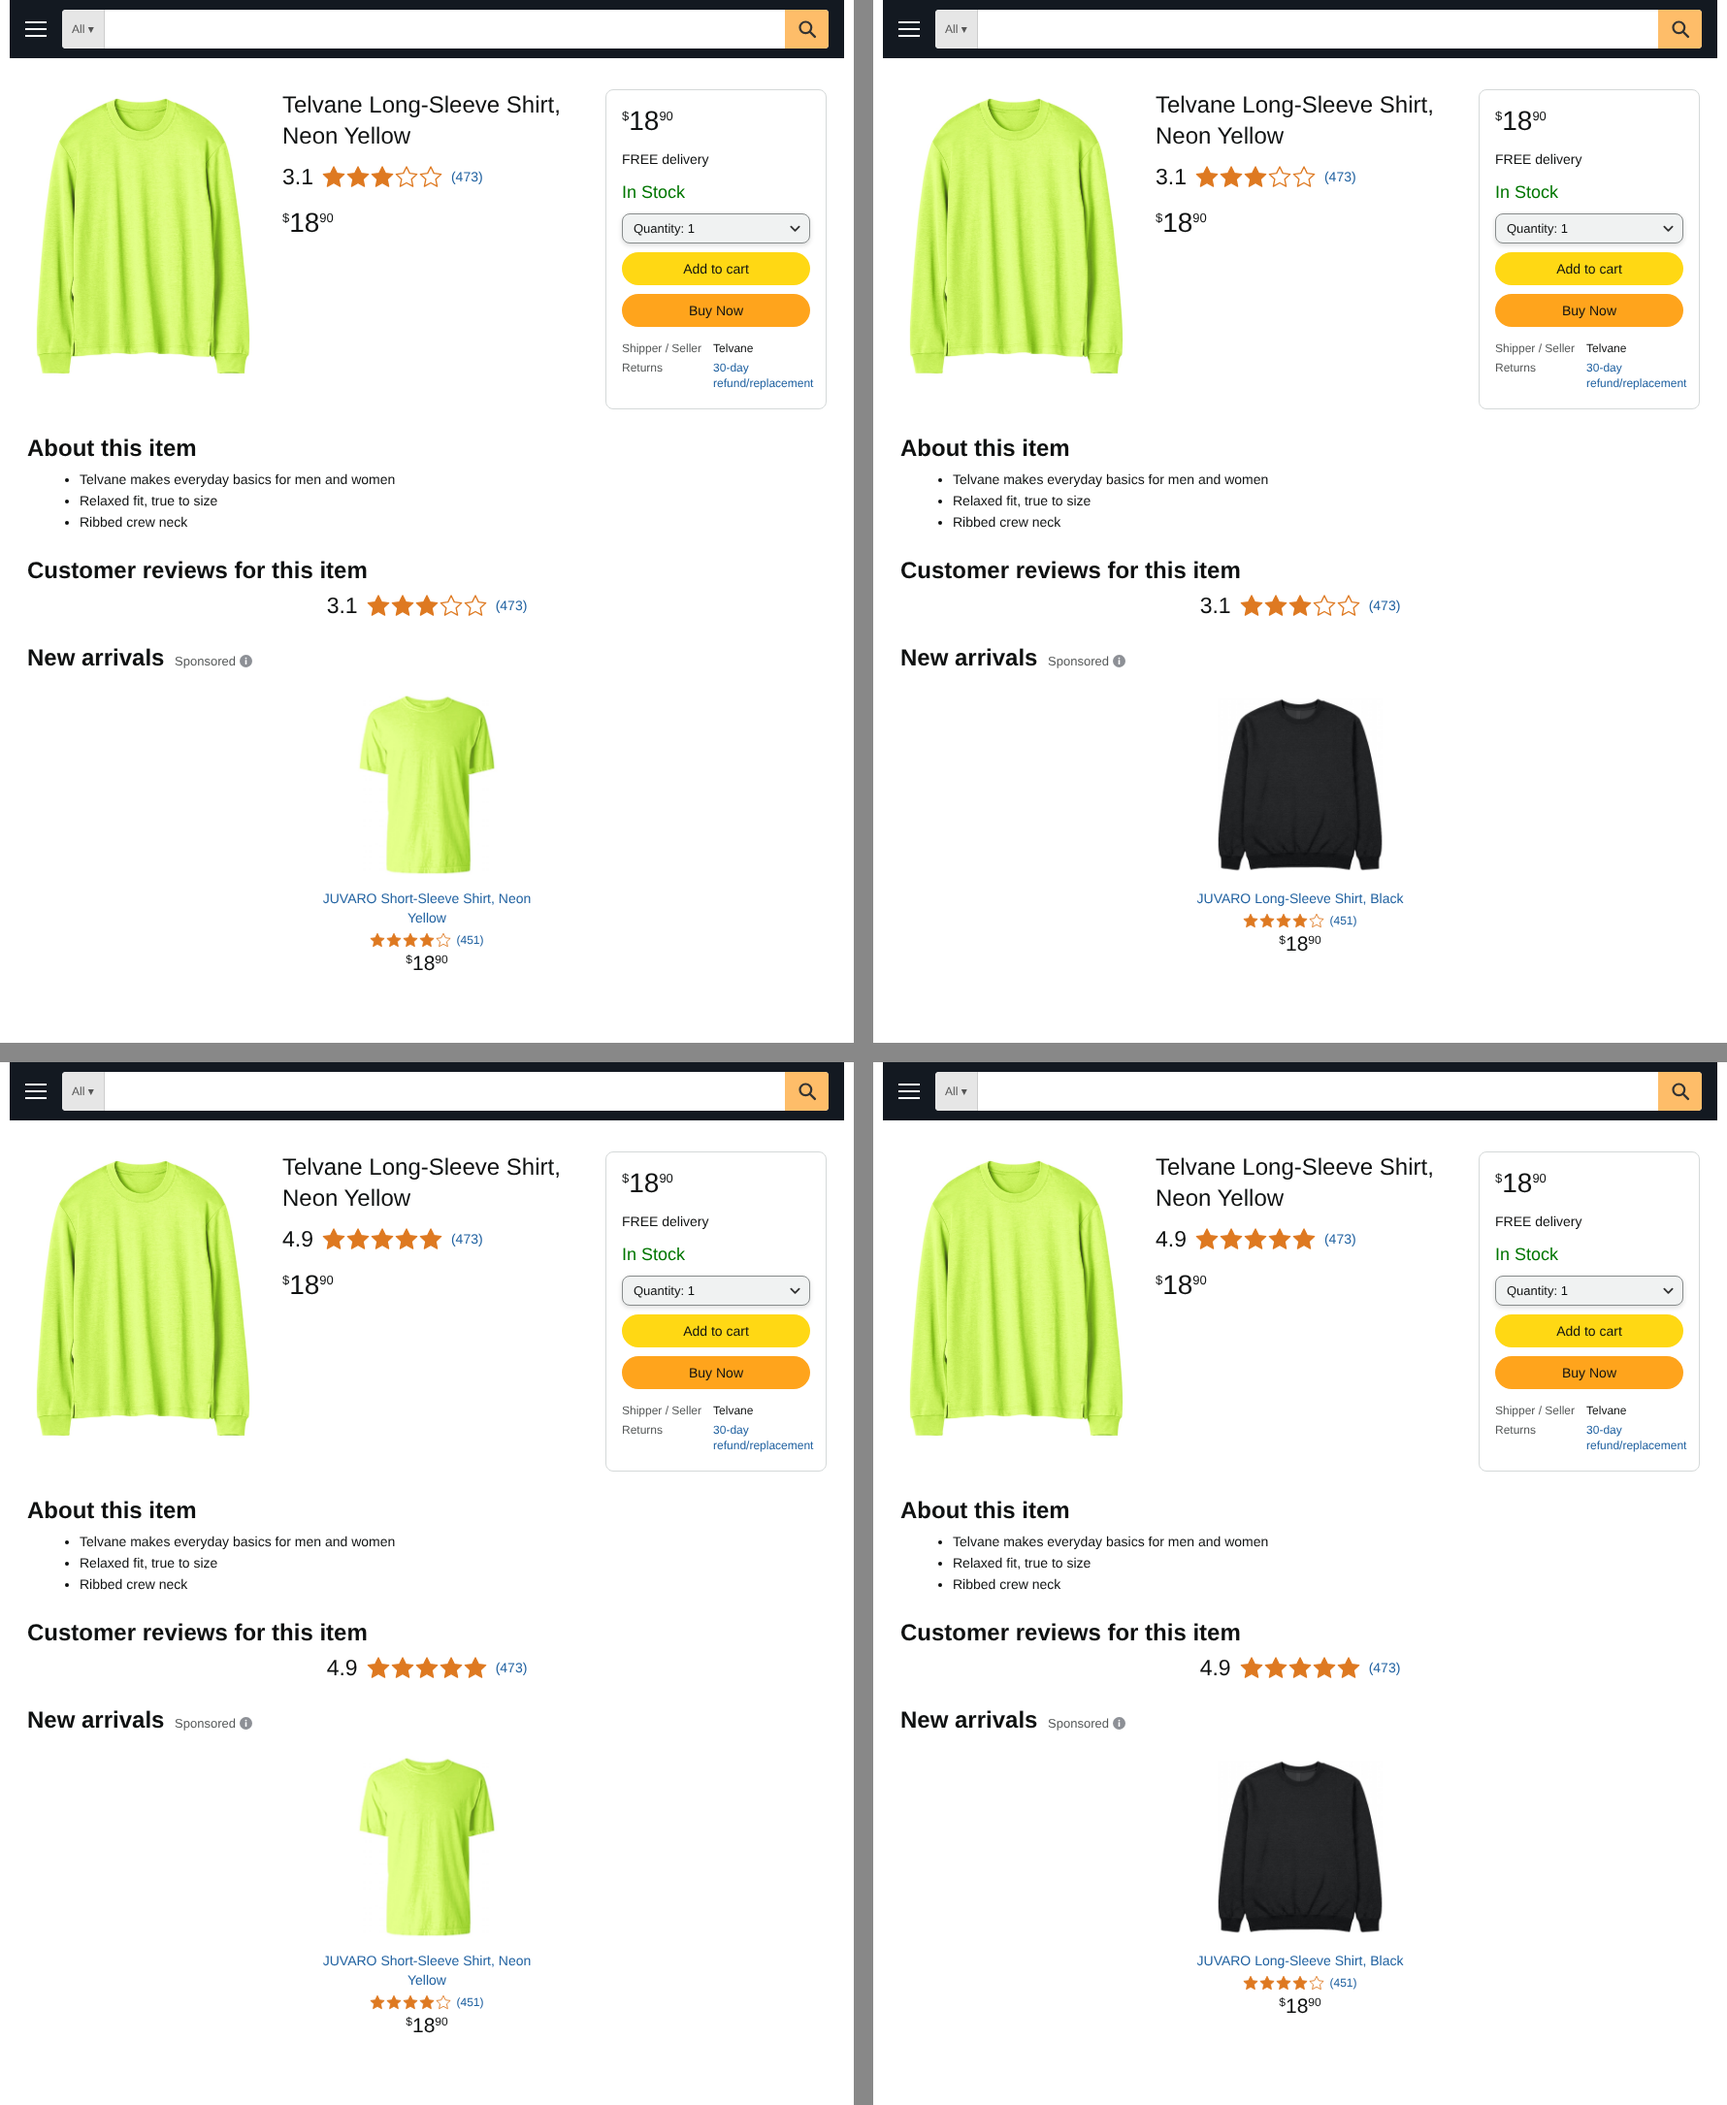
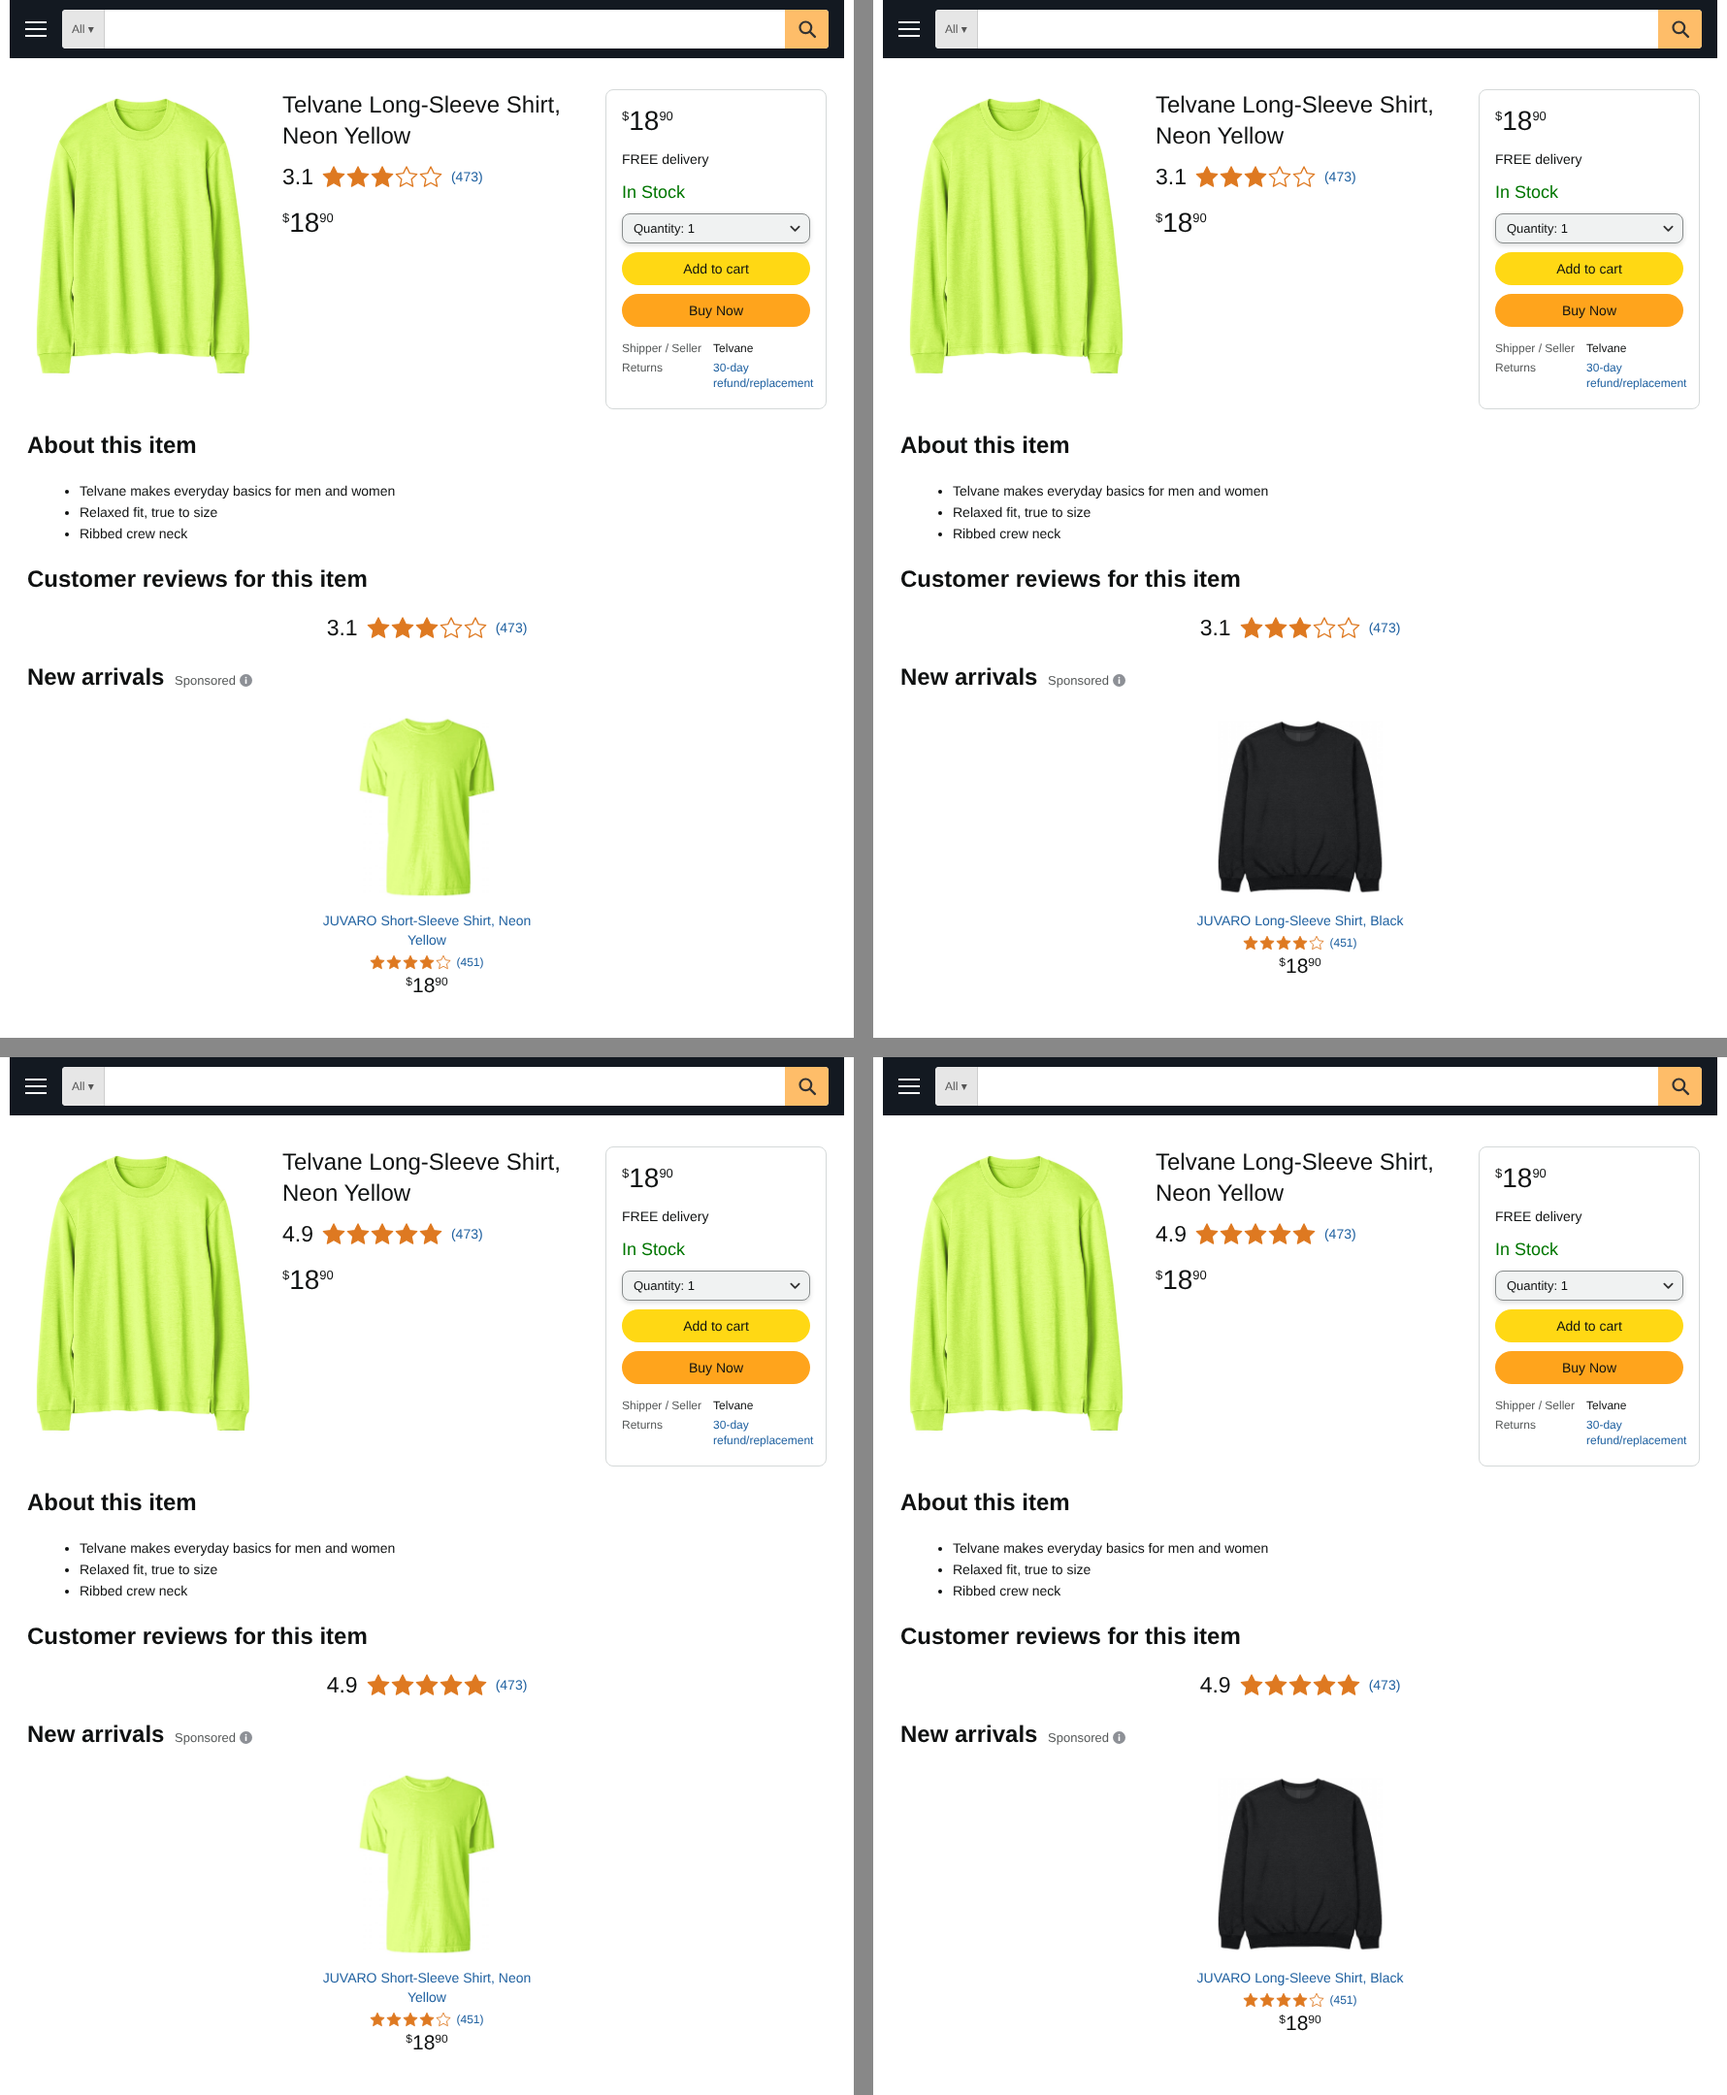
add

diff --git a/S7.9/s79_31_color.html b/S7.9/s79_31_color.html
@@ -44,11 +44,12 @@ h1{margin:0 0 4px;font-size:24px;line-height:32px;font-weight:400}
 .meta td:first-child{color:#565959;padding-right:12px;white-space:nowrap}
 ul{margin:0 0 0 54px;padding:0}
 li{margin:0 0 2px}
-h2{margin:24px 0 6px;font-size:24px;line-height:32px;font-weight:700}
-.revsum{margin:6px 0 4px;justify-content:center}
+/* Same spacing for every section: the visible white space above a section header equals the white space below it. */
+h2{margin:21px 0 21px;font-size:24px;line-height:32px;font-weight:700}
+.revsum{margin:-1px 0 1px;justify-content:center}
 .spons{margin-left:4px;font-size:13px;line-height:20px;font-weight:400;color:#565959;white-space:nowrap}
 .spons svg{position:relative;top:2px}
-.card{width:250px;margin:18px auto 0;text-align:center}
+.card{width:250px;margin:0 auto;text-align:center}
 .card .photo{width:180px;margin:0 auto}
 .card{min-height:299px}
 .card .name{margin-top:10px}
@@ -67,9 +68,9 @@ h2{margin:24px 0 6px;font-size:24px;line-height:32px;font-weight:700}
   .top{grid-template-columns:1fr;row-gap:12px}
   .top .photo{max-width:260px;margin:0 auto}
   h1{font-size:20px;line-height:28px}
-  h2{font-size:20px;line-height:28px;margin-top:22px}
+  h2{font-size:20px;line-height:28px;margin:18px 0 18px}
   ul{margin-left:24px}
-  .card{width:230px;margin:16px auto 0}
+  .card{width:230px;margin:0 auto}
   .card .photo{width:160px}
 }
 </style>

diff --git a/S7.9/s79_31_sleeve.html b/S7.9/s79_31_sleeve.html
@@ -44,11 +44,12 @@ h1{margin:0 0 4px;font-size:24px;line-height:32px;font-weight:400}
 .meta td:first-child{color:#565959;padding-right:12px;white-space:nowrap}
 ul{margin:0 0 0 54px;padding:0}
 li{margin:0 0 2px}
-h2{margin:24px 0 6px;font-size:24px;line-height:32px;font-weight:700}
-.revsum{margin:6px 0 4px;justify-content:center}
+/* Same spacing for every section: the visible white space above a section header equals the white space below it. */
+h2{margin:21px 0 21px;font-size:24px;line-height:32px;font-weight:700}
+.revsum{margin:-1px 0 1px;justify-content:center}
 .spons{margin-left:4px;font-size:13px;line-height:20px;font-weight:400;color:#565959;white-space:nowrap}
 .spons svg{position:relative;top:2px}
-.card{width:250px;margin:18px auto 0;text-align:center}
+.card{width:250px;margin:0 auto;text-align:center}
 .card .photo{width:180px;margin:0 auto}
 .card{min-height:299px}
 .card .name{margin-top:10px}
@@ -67,9 +68,9 @@ h2{margin:24px 0 6px;font-size:24px;line-height:32px;font-weight:700}
   .top{grid-template-columns:1fr;row-gap:12px}
   .top .photo{max-width:260px;margin:0 auto}
   h1{font-size:20px;line-height:28px}
-  h2{font-size:20px;line-height:28px;margin-top:22px}
+  h2{font-size:20px;line-height:28px;margin:18px 0 18px}
   ul{margin-left:24px}
-  .card{width:230px;margin:16px auto 0}
+  .card{width:230px;margin:0 auto}
   .card .photo{width:160px}
 }
 </style>

diff --git a/S7.9/s79_49_color.html b/S7.9/s79_49_color.html
@@ -44,11 +44,12 @@ h1{margin:0 0 4px;font-size:24px;line-height:32px;font-weight:400}
 .meta td:first-child{color:#565959;padding-right:12px;white-space:nowrap}
 ul{margin:0 0 0 54px;padding:0}
 li{margin:0 0 2px}
-h2{margin:24px 0 6px;font-size:24px;line-height:32px;font-weight:700}
-.revsum{margin:6px 0 4px;justify-content:center}
+/* Same spacing for every section: the visible white space above a section header equals the white space below it. */
+h2{margin:21px 0 21px;font-size:24px;line-height:32px;font-weight:700}
+.revsum{margin:-1px 0 1px;justify-content:center}
 .spons{margin-left:4px;font-size:13px;line-height:20px;font-weight:400;color:#565959;white-space:nowrap}
 .spons svg{position:relative;top:2px}
-.card{width:250px;margin:18px auto 0;text-align:center}
+.card{width:250px;margin:0 auto;text-align:center}
 .card .photo{width:180px;margin:0 auto}
 .card{min-height:299px}
 .card .name{margin-top:10px}
@@ -67,9 +68,9 @@ h2{margin:24px 0 6px;font-size:24px;line-height:32px;font-weight:700}
   .top{grid-template-columns:1fr;row-gap:12px}
   .top .photo{max-width:260px;margin:0 auto}
   h1{font-size:20px;line-height:28px}
-  h2{font-size:20px;line-height:28px;margin-top:22px}
+  h2{font-size:20px;line-height:28px;margin:18px 0 18px}
   ul{margin-left:24px}
-  .card{width:230px;margin:16px auto 0}
+  .card{width:230px;margin:0 auto}
   .card .photo{width:160px}
 }
 </style>

diff --git a/S7.9/s79_49_sleeve.html b/S7.9/s79_49_sleeve.html
@@ -44,11 +44,12 @@ h1{margin:0 0 4px;font-size:24px;line-height:32px;font-weight:400}
 .meta td:first-child{color:#565959;padding-right:12px;white-space:nowrap}
 ul{margin:0 0 0 54px;padding:0}
 li{margin:0 0 2px}
-h2{margin:24px 0 6px;font-size:24px;line-height:32px;font-weight:700}
-.revsum{margin:6px 0 4px;justify-content:center}
+/* Same spacing for every section: the visible white space above a section header equals the white space below it. */
+h2{margin:21px 0 21px;font-size:24px;line-height:32px;font-weight:700}
+.revsum{margin:-1px 0 1px;justify-content:center}
 .spons{margin-left:4px;font-size:13px;line-height:20px;font-weight:400;color:#565959;white-space:nowrap}
 .spons svg{position:relative;top:2px}
-.card{width:250px;margin:18px auto 0;text-align:center}
+.card{width:250px;margin:0 auto;text-align:center}
 .card .photo{width:180px;margin:0 auto}
 .card{min-height:299px}
 .card .name{margin-top:10px}
@@ -67,9 +68,9 @@ h2{margin:24px 0 6px;font-size:24px;line-height:32px;font-weight:700}
   .top{grid-template-columns:1fr;row-gap:12px}
   .top .photo{max-width:260px;margin:0 auto}
   h1{font-size:20px;line-height:28px}
-  h2{font-size:20px;line-height:28px;margin-top:22px}
+  h2{font-size:20px;line-height:28px;margin:18px 0 18px}
   ul{margin-left:24px}
-  .card{width:230px;margin:16px auto 0}
+  .card{width:230px;margin:0 auto}
   .card .photo{width:160px}
 }
 </style>

diff --git a/S7.9/build.py b/S7.9/build.py
@@ -152,11 +152,12 @@ h1{margin:0 0 4px;font-size:24px;line-height:32px;font-weight:400}
 .meta td:first-child{color:#565959;padding-right:12px;white-space:nowrap}
 ul{margin:0 0 0 54px;padding:0}
 li{margin:0 0 2px}
-h2{margin:24px 0 6px;font-size:24px;line-height:32px;font-weight:700}
-.revsum{margin:6px 0 4px;justify-content:center}
+/* Same spacing for every section: the visible white space above a section header equals the white space below it. */
+h2{margin:21px 0 21px;font-size:24px;line-height:32px;font-weight:700}
+.revsum{margin:-1px 0 1px;justify-content:center}
 .spons{margin-left:4px;font-size:13px;line-height:20px;font-weight:400;color:#565959;white-space:nowrap}
 .spons svg{position:relative;top:2px}
-.card{width:250px;margin:18px auto 0;text-align:center}
+.card{width:250px;margin:0 auto;text-align:center}
 .card .photo{width:180px;margin:0 auto}
 .card{min-height:299px}
 .card .name{margin-top:10px}
@@ -175,9 +176,9 @@ h2{margin:24px 0 6px;font-size:24px;line-height:32px;font-weight:700}
   .top{grid-template-columns:1fr;row-gap:12px}
   .top .photo{max-width:260px;margin:0 auto}
   h1{font-size:20px;line-height:28px}
-  h2{font-size:20px;line-height:28px;margin-top:22px}
+  h2{font-size:20px;line-height:28px;margin:18px 0 18px}
   ul{margin-left:24px}
-  .card{width:230px;margin:16px auto 0}
+  .card{width:230px;margin:0 auto}
   .card .photo{width:160px}
 }
 """
